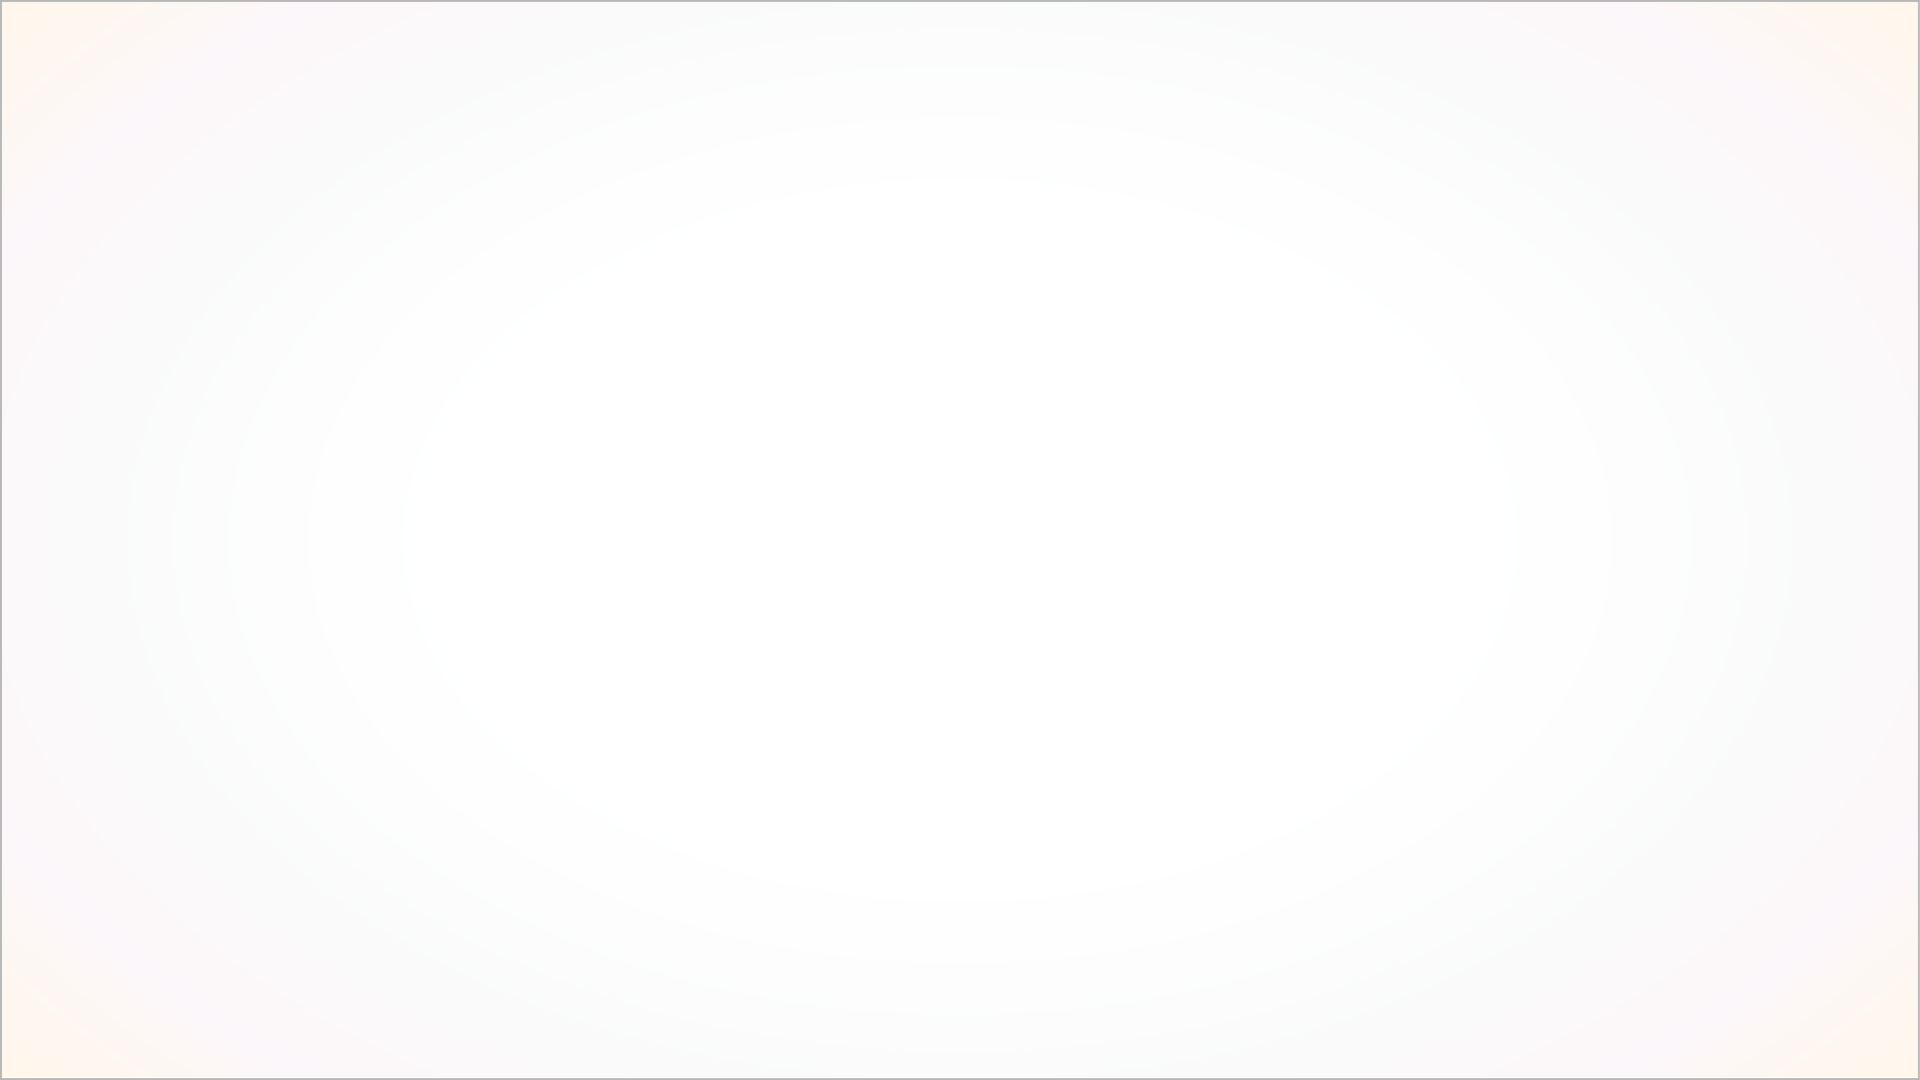
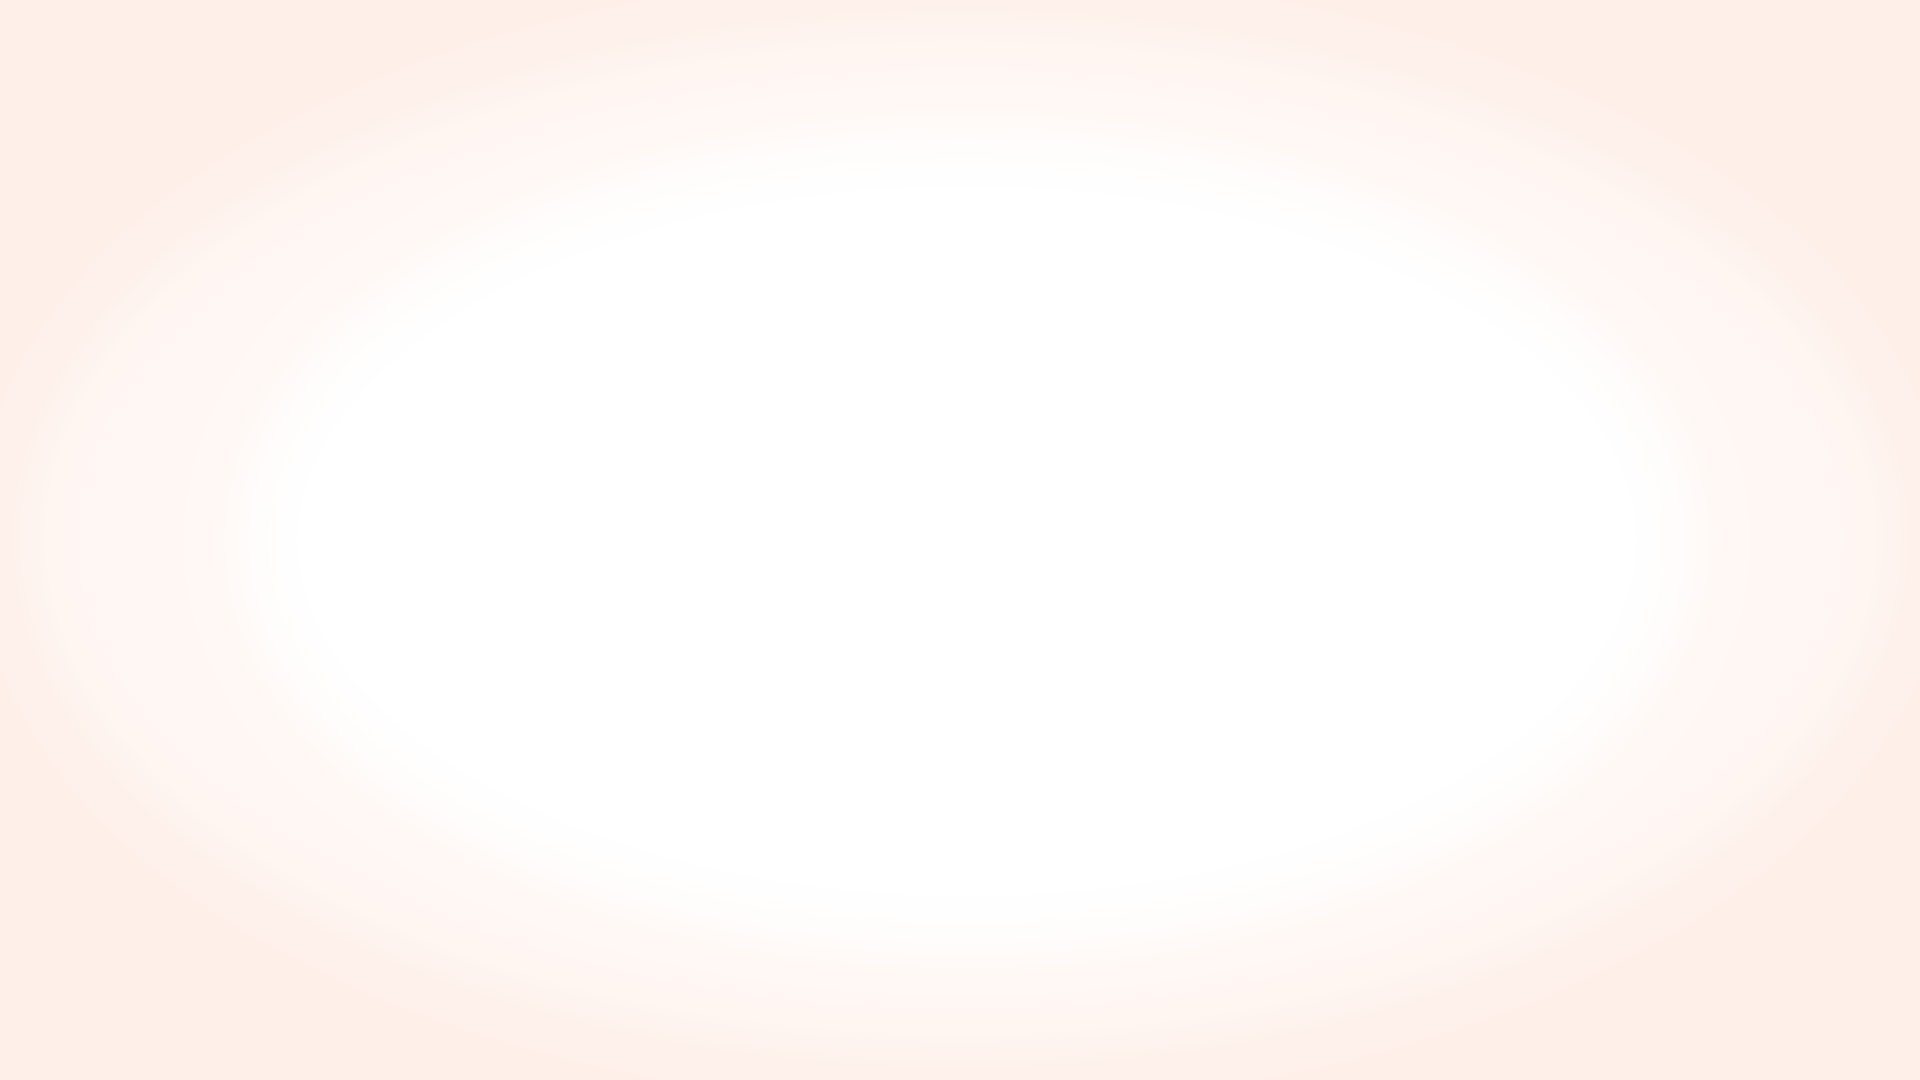
main update

Changed region(s): [[0.9688, 0.9778, 1.0, 1.0], [0.0, 0.9778, 0.0312, 1.0]]

diff --git a/index.html b/index.html
@@ -1,7 +1,7 @@
 <!DOCTYPE html>
 <html lang="en">
     <!-- Application Icon -->
-    <link rel="icon" href="Assets/Logo_transparent.png">
+    <link rel="icon" href="Assets/ico.png">
 
     <!-- Application Header -->
     <head>
@@ -22,14 +22,14 @@
         <div >
             <!-- Scene Section -->
             <div id="ava-ui">
-                <img src="Assets/shroud.png" style="width: 100%; height: 80%;">
+                <img src="Assets/shroud.png" style="width: 100%; height: 100%;">
                 <!-- UI Elements -->
-                <div align="center" style="position:absolute; top: 38vh; width: 100vw; background-color: transparent;">
-                    <p style="font-size: 21px; text-align: center;" id="main-quoter">"Hi there, my name is Ava!"</p>
+                <div align="center" style="position:absolute; top: 28vh; width: 100vw; background-color: transparent;">
+                    <p style="font-size: 62px; text-align: center;" id="main-quoter">Dalton Fox</p>
                     <!-- Button -->
                     <div align="center" id="start-button">
-                        <img src="Assets/button_start.png" style="cursor: pointer; height: 9vh; width: auto; position: relative;">
-                        <h2 style="position: relative; cursor: pointer; top: -9vh">Get Started</h2>
+                        <!--<img src="Assets/button_start.png" style="cursor: pointer; height: 9vh; width: auto; position: relative;">-->
+                        <h2 style="position: relative; cursor: pointer; top: -9vh">Interactive Resume</h2>
                     </div>
                 </div>
             </div>
@@ -38,7 +38,7 @@
             <div id="main-what">
                 <!-- Text -->
                 <div class="text-div">
-                    <h1>What is Project Ava?</h1>
+                    <h1>Introduction</h1>
                     <li>
                         Lorem ipsum dolor sit amet, consectetur adipiscing elit, sed do eiusmod tempor incididunt ut labore et dolore magna aliqua.
                         Ut enim ad minim veniam, quis nostrud exercitation ullamco laboris nisi ut aliquip ex ea commodo consequat.
@@ -57,7 +57,7 @@
             <div id="main-how" style="">
                 <!-- Text -->
                 <div class="text-div">
-                    <h1 style="padding-top: 3vh">How does it work?</h1>
+                    <h1 style="padding-top: 3vh">Experience</h1>
                     <li>
                         Lorem ipsum dolor sit amet, consectetur adipiscing elit, sed do eiusmod tempor incididunt ut labore et dolore magna aliqua.
                         Ut enim ad minim veniam, quis nostrud exercitation ullamco laboris.
@@ -73,7 +73,7 @@
             <div id="main-why">
                 <!-- Text -->
                 <div class="text-div">
-                    <h1 style="padding-top: 3vh">Why it works?</h1>
+                    <h1 style="padding-top: 3vh">Projects</h1>
                     <li>
                         Lorem ipsum dolor sit amet, consectetur adipiscing elit, sed do eiusmod tempor incididunt ut labore et dolore magna aliqua.
                         Ut enim ad minim veniam, quis nostrud exercitation ullamco laboris nisi ut aliquip ex ea commodo consequat.
@@ -92,7 +92,7 @@
             <div id="main-start">
                 <!-- Text -->
                 <div class="text-div">
-                    <h1 style="padding-top: 4vh">Want to get started?</h1>
+                    <h1 style="padding-top: 4vh">Backgroun</h1>
                     <li>
                         Lorem ipsum dolor sit amet, consectetur adipiscing elit, sed do eiusmod tempor incididunt ut labore et dolore magna aliqua.
                         Ut enim ad minim veniam, quis nostrud exercitation ullamco laboris nisi ut aliquip ex ea commodo consequat.
@@ -110,9 +110,9 @@
             <div id="main-mobile">
                 <!-- Text -->
                 <div class="text-div">
-                    <h1 style="padding-top: 8vh">Get the Mobile App</h1>
+                    <h1 style="padding-top: 8vh">Placeholder</h1>
                     <li>
-                        Coming soon to the Android and iOS platforms!
+                        Lorem ipsum dolor sit amet, consectetur adipiscing elit, sed do eiusmod tempor incididunt
                     </li>
                 </div>
             </div>
@@ -145,13 +145,13 @@
                     <table align="center" style="max-width: 1920px; border-spacing: 3vw;">
                         <tr></tr>
                     </table>
-                    <p id="copy-right" style="font-size: 80%;">COPYRIGHT © ASPIRE TO IMPROVE LLC</p>
+                    <p id="copy-right" style="font-size: 80%;">COPYRIGHT © DALTON FOX 2018</p>
                 </div>
             </div>
 
             <!-- Ava Logo -->
             <div id="logo">
-                <img src="Assets/Logo_transparent.png" style="padding-top: 1vh; width: auto; height: 20vh;">
+                <!--<img src="Assets/Logo_transparent.png" style="padding-top: 1vh; width: auto; height: 20vh;">-->
             </div>
         </div>
 
@@ -167,7 +167,7 @@
 
         <!-- Top Menu and Sub Menu -->
         <div id="menu">
-            <input id="nav-logo" type="image" src="Assets/menu_logo.png">
+            <!--<input id="nav-logo" type="image" src="Assets/menu_logo.png">-->
             <input align="right" id="nav-button" type="image" src="Assets/drop.png">
             <!-- Sub Menu Items -->
             <div id="sub-menu">

diff --git a/index.css b/index.css
@@ -1,12 +1,12 @@
-@font-face { font-family: Odin; src: url('Assets/Odin Rounded - Regular.otf'); }
-@font-face { font-family: Asap; src: url('Assets/Asap-Regular.otf'); }
-
 .hidden {
     display: none;
 }
+h1 h2 h3 li p #main-quoter{
+    font-family: 'Open Sans', sans-serif !important;
+}
 
 h1 {
-    font-family: Odin;
+    
     font-size: 21px;
 }
 
@@ -15,12 +15,12 @@ h1 {
 }
 
 h2 {
-    font-family: Odin;
     font-size: 3vh;
+    color: #505050;
 }
 
 li{
-    font-family: Asap;
+    font-family: 'Open Sans', sans-serif !important;
     font-size: 12px;
     color: #505050;
     max-width:800px;
@@ -32,9 +32,9 @@ li{
 }
 
 #main-quoter {
-    font-family: Asap;
-    font-size: 16px;
-    color: #505050;
+    font-family: 'Open Sans', sans-serif !important;
+    font-size: 62px;
+    color: #000000;
     max-width:800px;
     word-wrap: break-word;
     list-style-type: none;
@@ -50,7 +50,7 @@ li{
 
 #main-scene {
     position: absolute;
-    background-color: rgba(255, 255, 255, 0.78);
+    background-color: rgba(255, 255, 255, 0.58);
     width:100vw;
     height:100vh;
     z-index: 0;
@@ -77,7 +77,7 @@ p.menu_li{
     left: 3vw;
     top: 3vh;
     width: 94vw;
-    font-family: Asap;
+    font-family: 'Open Sans', sans-serif !important;
     text-align: left;
     font-size: 18px;
     padding-top: 0.5vh;
@@ -88,13 +88,13 @@ p.menu_li{
 }
 
 h3{
-    font-family: Asap;
+    font-family: 'Open Sans', sans-serif !important;
     font-size: 18px;
     color: #7a7a7a
 }
 
 .menu_footer {
-    border-left: 2px solid rgb(255,108,140);
+    border-left: 2px solid rgb(80, 176, 255);
     padding-left: 2.5vw;
     padding-top: 0.25vh;
     padding-bottom: 0.25vh;
@@ -130,13 +130,14 @@ main.img{
     -webkit-backface-visibility: hidden;
     position: fixed;
     left: 0;
-    top: 0;
+    top: 92%;
     width: 100vw;
     z-index: 1;
     background-color: rgba(255,255,255,1);
     height:8vh;
     transition: opacity, top 1.75s ease 0s;
     border-bottom: 2px solid black;
+    border-top: 2px solid black;
 }
 
 #left-buffer{
@@ -174,7 +175,7 @@ a:hover{
     top: 134.65vh;
     width: 100%;
     height: 70.60vh;
-    background-color: rgb(255,108,140)
+    background-color: rgb(80, 176, 255);
 }
 
 #main-divider2 {
@@ -183,7 +184,7 @@ a:hover{
     top: 267.8vh;
     width: 100%;
     height: 70.70vh;
-    background-color: rgb(255,108,140)
+    background-color: rgb(80, 176, 255);
 }
 
 #main-divider3 {
@@ -193,7 +194,7 @@ a:hover{
     height: 9vh;
     z-index: 1;
     border-top: 3px solid black;
-    background: linear-gradient(to bottom, rgba(255,108,140,0.25) 0%,rgba(255,255,255,0) 100%);
+    background: linear-gradient(to bottom, rgba(80, 176, 255, 0.4) 0%,rgba(255,255,255,0) 100%);
     border-bottom: 2px solid white;
 }
 
@@ -208,7 +209,7 @@ a:hover{
 #main-what {
     position: absolute;
     background-color: rgb(255,255,255);
-    top: 71vh;
+    top: 100vh;
     text-align: left;
     padding-left: 3.5vw;
     font-size: 16px;
@@ -321,7 +322,7 @@ a:hover{
     pointer-events: none;
     transition: opacity 0.20s ease 0s;
     opacity: 0;
-    background-color: rgb(255,108,140);
+    background-color: rgb(80, 176, 255);
     width: 100vw;
     height: 100vh;
     z-index: 2;

diff --git a/main.js b/main.js
@@ -24,7 +24,7 @@ function init()
     camera = new THREE.PerspectiveCamera( 75, window.innerWidth / window.innerHeight, 1, 8500 );
     camera.position.z = 800;
     scene = new THREE.Scene();
-    scene.fog = new THREE.FogExp2( 0xffffff, 0.00000005 );
+    scene.fog = new THREE.FogExp2( 0xffffff, 0.00001 );
     geometry = new THREE.Geometry();
     renderer = new THREE.WebGLRenderer( {alpha : true});
     renderer.setPixelRatio( window.devicePixelRatio );
@@ -55,27 +55,11 @@ function init()
         ({
             size: size, map: particle_sprite, blending: THREE.AdditiveBlending, depthTest: false, transparent : true
         });
-        var choice = Math.floor(Math.random() * 3) + 1  
-        if (choice == 1)
-        {
-            materials[i].color.setRGB(0.4, 0, 0.7);
-        }
-        else if (choice == 2)
-        {
-            materials[i].color.setRGB(0, 0.2, 1);
-        }
-        else
-        {
-            materials[i].color.setRGB(0, 1, 1);
-        }
-        
-        materials[i].opacity = Math.random() + 0.7;
-        if (materials[i].opacity >= 1)
-        {
-            materials[i].opacity = 0.98
-        }
+
+        materials[i].color.setRGB(0, 0, 0);
+        materials[i].opacity = 1;
         opacities[i] = materials[i].opacity;
-        materials[i].opacity = 0;
+        materials[i].opacity = 1;
         particles = new THREE.Points( geometry, materials[i] );
         particles.rotation.x = Math.random() * 9;
         particles.rotation.y = Math.random() * 9;
@@ -232,7 +216,7 @@ function onWindowResize()
 
     if (window.innerWidth > hbuffer)
     {
-        document.getElementById("nav-logo").style.left = ((window.innerWidth - hbuffer) / 2 + 20).toString() + "px";
+        //document.getElementById("nav-logo").style.left = ((window.innerWidth - hbuffer) / 2 + 20).toString() + "px";
         document.getElementById("nav-button").style.left = (window.innerWidth - ((window.innerWidth - hbuffer)/2) - 100).toString() + "px";
         document.getElementById("left-buffer").style.width = ((window.innerWidth - hbuffer) / 2).toString() + "px";
         document.getElementById("right-buffer").style.width = ((window.innerWidth - hbuffer) / 2).toString() + "px";
@@ -240,14 +224,14 @@ function onWindowResize()
     }
     else
     {
-        document.getElementById("nav-logo").style.left = (20).toString() + "px";
+        //document.getElementById("nav-logo").style.left = (20).toString() + "px";
         document.getElementById("nav-button").style.left = (window.innerWidth - 80).toString() + "px";
         document.getElementById("left-buffer").style.width = 0;
         document.getElementById("right-buffer").style.width = 0;
         document.getElementById("right-buffer").style.left = "100vw";
     }
 
-    document.getElementById("main-quoter").style.fontSize = (l_scale * 1.55).toString() + "px";
+    document.getElementById("main-quoter").style.fontSize = (l_scale * 3.55).toString() + "px";
 
     for(var i = 0; i < pElements.length; i++)
     {
